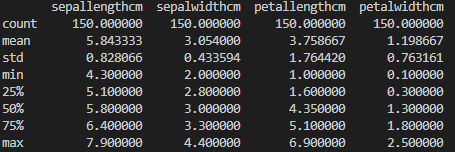
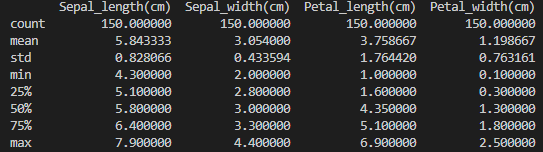
read me file update

diff --git a/analysis.py b/analysis.py
@@ -9,14 +9,15 @@ from sklearn import model_selection # Python graphing library based on matplotli
 from sklearn.metrics import classification_report
 from sklearn.metrics import confusion_matrix
 from sklearn.metrics import accuracy_score
-from sklearn.linear_model import LogisticRegression
-from sklearn.tree import DecisionTreeClassifier
-from sklearn.neighbors import KNeighborsClassifier
+from sklearn.linear_model import LogisticRegression # # for Logistic Regression algorithm
+from sklearn.tree import DecisionTreeClassifier #for using Decision Tree Algoithm
+from sklearn.neighbors import KNeighborsClassifier # for K nearest neighbours
 from sklearn.discriminant_analysis import LinearDiscriminantAnalysis
 from sklearn.naive_bayes import GaussianNB
-from sklearn.svm import SVC
+from sklearn.svm import SVC #for Support Vector Machine (SVM) Algorithm
 from sklearn.model_selection import StratifiedKFold
 from sklearn.model_selection import cross_val_score
+from sklearn.model_selection import train_test_split #to split the dataset for training and testing
 
 # Import the dataset from iris.csv file 
 path = ""
@@ -25,7 +26,7 @@ df = pd.read_csv(filenameForIrisData)
 
 # Rename column titles
 # https://www.geeksforgeeks.org/python-pandas-dataframe-rename/
-iris_df = df.rename(columns = {"sepallength" : "sepallengthcm", "sepalwidth" : "sepalwidthcm", "petallength" : "petallengthcm", "petalwidth" : "petalwidthcm", "class" : "species"})
+iris_df = df.rename(columns = {"sepallength" : "Sepal_length(cm)", "sepalwidth" : "Sepal_width(cm)", "petallength" : "Petal_length(cm)", "petalwidth" : "Petal_width(cm)", "class" : "species"})
 
 # To show the full list print (iris_df), but for now I just want to see the first 5 rows of data 
 print(iris_df.head(5))   
@@ -68,13 +69,13 @@ with open(".\Variable_Summary.txt", "wt") as i:
 # plt.savefig = saving the histogram as an image to the folder  
 # plt.show() = displaying the histogram  
 
-sns.FacetGrid(iris_df,hue="species",height=5).map(sns.histplot,"petallengthcm").add_legend()
+sns.FacetGrid(iris_df,hue="species",height=5).map(sns.histplot,"Petal_length(cm)").add_legend()
 plt.savefig("Petal_Length.png")
-sns.FacetGrid(iris_df,hue="species",height=5).map(sns.histplot,"petalwidthcm").add_legend()
+sns.FacetGrid(iris_df,hue="species",height=5).map(sns.histplot,"Petal_width(cm)").add_legend()
 plt.savefig("Petal_Width.png")
-sns.FacetGrid(iris_df,hue="species",height=5).map(sns.histplot,"sepallengthcm").add_legend()
+sns.FacetGrid(iris_df,hue="species",height=5).map(sns.histplot,"Sepal_length(cm)").add_legend()
 plt.savefig("Sepal_Length.png")
-sns.FacetGrid(iris_df,hue="species",height=5).map(sns.histplot,"sepalwidthcm").add_legend()
+sns.FacetGrid(iris_df,hue="species",height=5).map(sns.histplot,"Sepal_width(cm)").add_legend()
 plt.savefig("Sepal_Width.png")
 plt.show()
 
@@ -89,13 +90,13 @@ plt.show()
 # On the plot the x axis is the species type, y axis is the attribute 
 plt.figure(figsize=(15,10))    
 plt.subplot(2,2,1)    
-sns.boxplot(x='species',y='sepallengthcm',data=iris_df)     
+sns.boxplot(x='species',y='Sepal_length(cm)',data=iris_df)     
 plt.subplot(2,2,2)    
-sns.boxplot(x='species',y='sepalwidthcm',data=iris_df)     
+sns.boxplot(x='species',y='Sepal_width(cm)',data=iris_df)     
 plt.subplot(2,2,3)    
-sns.boxplot(x='species',y='petallengthcm',data=iris_df)     
+sns.boxplot(x='species',y='Petal_length(cm)',data=iris_df)     
 plt.subplot(2,2,4)    
-sns.boxplot(x='species',y='petalwidthcm',data=iris_df)
+sns.boxplot(x='species',y='Petal_width(cm)',data=iris_df)
 plt.savefig("Box_plot.png")
 plt.show()
 
@@ -114,19 +115,22 @@ plt.show()
 # On the plot the x axis is the species type, y axis is the attribute 
 plt.figure(figsize=(15,10))
 plt.subplot(2,2,1)
-sns.violinplot(x='species',y='petallengthcm',data=iris_df)
+sns.violinplot(x='species',y='Petal_length(cm)',data=iris_df)
 plt.subplot(2,2,2)
-sns.violinplot(x='species',y='petalwidthcm',data=iris_df)
+sns.violinplot(x='species',y='Petal_width(cm)',data=iris_df)
 plt.subplot(2,2,3)
-sns.violinplot(x='species',y='sepallengthcm',data=iris_df)
+sns.violinplot(x='species',y='Sepal_length(cm)',data=iris_df)
 plt.subplot(2,2,4)
-sns.violinplot(x='species',y='sepalwidthcm',data=iris_df)
+sns.violinplot(x='species',y='Sepal_width(cm)',data=iris_df)
 plt.show()
 
 # to show correlation 
 print(iris_df.corr())
 
-# Heatmap used to show correlation 
+# Heatmap used to show correlation. 
+# As I plan to train algorithms, the number of features and their correlation plays an important role. 
+# If there are features and many of the features are highly correlated, then training an algorithm with all the featues will reduce the accuracy. 
+# Thus features selection should be done carefully. This dataset has less featues but still we will see the correlation. 
 # https://stackabuse.com/ultimate-guide-to-heatmaps-in-seaborn-with-python/
 
 # To show the values on the heatmap, insert "annot = True"
@@ -150,7 +154,7 @@ y=iris.target
 # X_test, y_test for testing the model
 
 
-from sklearn.model_selection import train_test_split
+
 X_train,X_test,y_train,y_test=train_test_split(X,y,test_size=0.25)
 
 # https://medium.com/gft-engineering/start-to-learn-machine-learning-with-the-iris-flower-classification-challenge-4859a920e5e3

diff --git a/projectTestWork/6.2.pairsPlot.py b/projectTestWork/6.2.pairsPlot.py
@@ -10,7 +10,7 @@ import matplotlib.pyplot as plt
 
 path = ""
 filenameForIrisData = path + "iris.csv"
-header_list = ["sepallengthcm", "sepalwidthcm", "petallengthcm", "petalwidthcm", "species"]
+header_list = ["sepallengthcm", "sepalwidthcm", "pcd etallengthcm", "petalwidthcm", "species"]
 df = pd.read_csv(filenameForIrisData)
 iris_df = df.rename(columns = {"sepallength" : "sepallengthcm", "sepalwidth" : "sepalwidthcm", "petallength" : "petallengthcm", "petalwidth" : "petalwidthcm", "class" : "species"})
 # print (iris_df)

diff --git a/projectTestWork/3.1.datasummary.py b/projectTestWork/3.1.datasummary.py
@@ -34,6 +34,11 @@ print(iris_df.describe())
 
 print(iris_df.duplicated().sum())
 
-print (iris_df[iris_df.duplicated()])
+print (iris_df[iris_df.duplicated()])  
+
+plt.title('Species Count')
+sns.countplot(iris_df['species'])
+plt.show()
+
 
 

diff --git a/README.md b/README.md
@@ -92,8 +92,8 @@ I rename the columns so that they include the measurement type 'cm' in the title
     path = ""
     filenameForIrisData = path + "iris.csv"
     df = pd.read_csv(filenameForIrisData)
-    iris_df = df.rename(columns = {"sepallength" : "sepallengthcm", "sepalwidth" : "sepalwidthcm",   
-    "petallength" : "petallengthcm", "petalwidth" : "petalwidthcm", "class" : "species"})
+    iris_df = df.rename(columns = {"sepallength" : "Sepal_length(cm)", "sepalwidth" : "Sepal_width(cm)",   
+    "petallength" : "Petal_length(cm)", "petalwidth" : "Petal_width(cm)", "class" : "species"})
 
 ## 2.2 Understanding the dataset    
 
@@ -181,19 +181,22 @@ Univariate analysis is the simplest form of analyzing data.
 
 Histograms is a classic visualisation tool that show the distribution of the number of observations that fall within a bin.  
 
-    sns.FacetGrid(iris_df,hue="species",height=5).map(sns.histplot,"petallengthcm").add_legend()
+    sns.FacetGrid(iris_df,hue="species",height=5).map(sns.histplot,"Petal_length(cm)").add_legend()
     plt.savefig("Petal_Length.png")
-    sns.FacetGrid(iris_df,hue="species",height=5).map(sns.histplot,"petalwidthcm").add_legend()
+    sns.FacetGrid(iris_df,hue="species",height=5).map(sns.histplot,"Petal_width(cm)").add_legend()
     plt.savefig("Petal_Width.png")
-    sns.FacetGrid(iris_df,hue="species",height=5).map(sns.histplot,"sepallengthcm").add_legend()
+    sns.FacetGrid(iris_df,hue="species",height=5).map(sns.histplot,"Sepal_length(cm)").add_legend()
     plt.savefig("Sepal_Length.png")
-    sns.FacetGrid(iris_df,hue="species",height=5).map(sns.histplot,"sepalwidthcm").add_legend()
+    sns.FacetGrid(iris_df,hue="species",height=5).map(sns.histplot,"Sepal_width(cm)").add_legend()
     plt.savefig("Sepal_Width.png")
     plt.show()   
 
+![](images/3.1.1.Histogram_PetalLength.PNG) 
+![](images/3.1.1.Histogram_PetalWidth.PNG) 
+![](images/3.1.1.Histogram_SepalLength.PNG) 
+![](images/3.1.1.Histogram_SepalWidth.PNG) 
+
 The outputting plots show that the petal length and petal width can be used to differeniate the species setosa from the other 2 species.    
-
-
 
 
 ### 3.1.2 Boxplot  
@@ -211,13 +214,13 @@ On the plot the x axis is the species type, y axis is the attribute
 
     plt.figure(figsize=(15,10)) = set the size of the boxplot 
     plt.subplot(2,2,1)    
-    sns.boxplot(x='species',y='sepallengthcm',data=iris_df)
+    sns.boxplot(x='species',y='Sepal_length(cm)',data=iris_df)
     plt.subplot(2,2,2)    
-    sns.boxplot(x='species',y='sepalwidthcm',data=iris_df)     
+    sns.boxplot(x='species',y='Sepal_width(cm)',data=iris_df)     
     plt.subplot(2,2,3)    
-    sns.boxplot(x='species',y='petallengthcm',data=iris_df)     
+    sns.boxplot(x='species',y='Petal_length(cm)',data=iris_df)     
     plt.subplot(2,2,4)    
-    sns.boxplot(x='species',y='petalwidthcm',data=iris_df)
+    sns.boxplot(x='species',y='Petal_width(cm)',data=iris_df)
     plt.savefig("Box_plot.png")
     plt.show()   
 
@@ -239,13 +242,13 @@ On the plot the x axis is the species type, y axis is the attribute
 
     plt.figure(figsize=(15,10))
     plt.subplot(2,2,1)
-    sns.violinplot(x='species',y='petallengthcm',data=iris_df)
+    sns.violinplot(x='species',y='Petal_length(cm)',data=iris_df)
     plt.subplot(2,2,2)
-    sns.violinplot(x='species',y='petalwidthcm',data=iris_df)
+    sns.violinplot(x='species',y='Petal_width(cm)',data=iris_df)
     plt.subplot(2,2,3)
-    sns.violinplot(x='species',y='sepallengthcm',data=iris_df)
+    sns.violinplot(x='species',y='Sepal_length(cm)',data=iris_df)
     plt.subplot(2,2,4)
-    sns.violinplot(x='species',y='sepalwidthcm',data=iris_df)
+    sns.violinplot(x='species',y='Sepal_width(cm)',data=iris_df)
     plt.show()  
 
 Summary of Univariate analysis, shows for the Iris Setosa the petal length and petal width is visually clearly different from the Veriscolor and Virginica.  
@@ -260,35 +263,56 @@ Multivariate analysis helps us understand the relationships between attributes &
 
 ### 3.2.1 Scatterplot (Pairsplot)  
 
-Scatter plot is very useful when we are analyzing the relationship between 2 features on x and y axis.
+Scatter plot is very useful to analyse the relationship between 2 features on x and y axis.
 In seaborn library there is a pairplot function which is very useful to scatter plot all the features at once instead of plotting them individually.  
 
-The pair plot used to figure out a distribution of single variables and the relationship between two variables.  
+The pair plot is used to figure out a distribution of single variables and the relationship between two variables.  
 If the pair plot is given a solution for that as a clear understanding of each flower sets at a single graph.  
 Each flower scatters plots represented in different colors.  
 
 For each pair of attributes, we can use a scatter plot to visualize their joint distribution  
-sns.pairplot(iris_df, hue="species", diag_kind="kde")  
-plt.show()  
+    sns.pairplot(iris_df, hue="species", diag_kind="kde")  
+    plt.show()  
+
+The plot shows that the Petal length and Petal width are the most effective features to identify the different species of Iris. While Setosa can be easily linearly separable, Virnica and Versicolor have some overlap. So we can separate them by a line and some “if-else” conditions.
 
 ### 3.2.2 Correlation and Heatmaps  
 
-A Heatmap is used to show correlation. 
+A Heatmap is used to show correlation. Each square shows the correlation between the variables on each axis.   
+Correlation ranges from -1 to +1. Values closer to zero means there is no linear trend between the two variables.    
+The close to 1 the correlation is the more positively correlated they are; that is as one increases so does the other and the closer to 1 the stronger this relationship is.    
+A correlation closer to -1 is similar, but instead of both increasing one variable will decrease as the other increases. 
 
-To show the values on the heatmap, insert "annot = True" and use cmap to pick the colour palette of your choice 
-The output shows that Sepal Width and Length are not correlated, and Petal Width and Length are highly correlated.  
+As I plan is to use and train algorithms, the number of features and their correlation plays an important role for this.  
+If there are features that are highly correlated, then training an algorithm with all the features will reduce the accuracy.   
+Therefore features selection needs to be done carefully. The iris dataset has a low number of featues (4) but still we will see the correlation. 
 
-    print(iris_df.corr())
+Using the heatmap feature in Seaborn, we show the values on the heatmap, insert "annot = True" and use cmap to pick the colour palette of your choice  
+
+    print(iris_df.corr())  
+
+![](images/3.1.2.heatmapsnumbers.PNG)   
+
     plt.figure(figsize=(15,10))
     sns.heatmap(iris_df.corr(), annot = True, cmap = 'rocket') 
     plt.show()
+
+![](images/3.1.2.heatmaps.PNG)   
+
+ 
+   
+The diagonals are all 1 (light in colour) because those squares are correlating each variable to itself (so it's a perfect correlation).  
+High positive or negative value shows that the features have high correlation, in the iris dataset the petal length and petal width have the highest correlation with a value of 0.96.    
+On the opposite end, the sepal width and the sepal length have the lowest correlation with a value of -0.11.
 
 https://stackabuse.com/ultimate-guide-to-heatmaps-in-seaborn-with-python/  
 https://www.kaggle.com/ash316/ml-from-scratch-with-iris  
 http://www.cse.msu.edu/~ptan/dmbook/tutorials/tutorial3/tutorial3.html
 https://www.c-sharpcorner.com/article/a-first-machine-learning-project-in-python-with-iris-dataset/    
 https://medium.com/@avulurivenkatasaireddy/exploratory-data-analysis-of-iris-data-set-using-python-823e54110d2d
-https://www.kaggle.com/dhruvmak/iris-flower-classification-with-eda
+https://www.kaggle.com/dhruvmak/iris-flower-classification-with-eda  
+https://stats.stackexchange.com/questions/392517/how-can-one-interpret-a-heat-map-plot  
+
 
 # 4.0 Train and Validate the data (Machine learning)  
 
